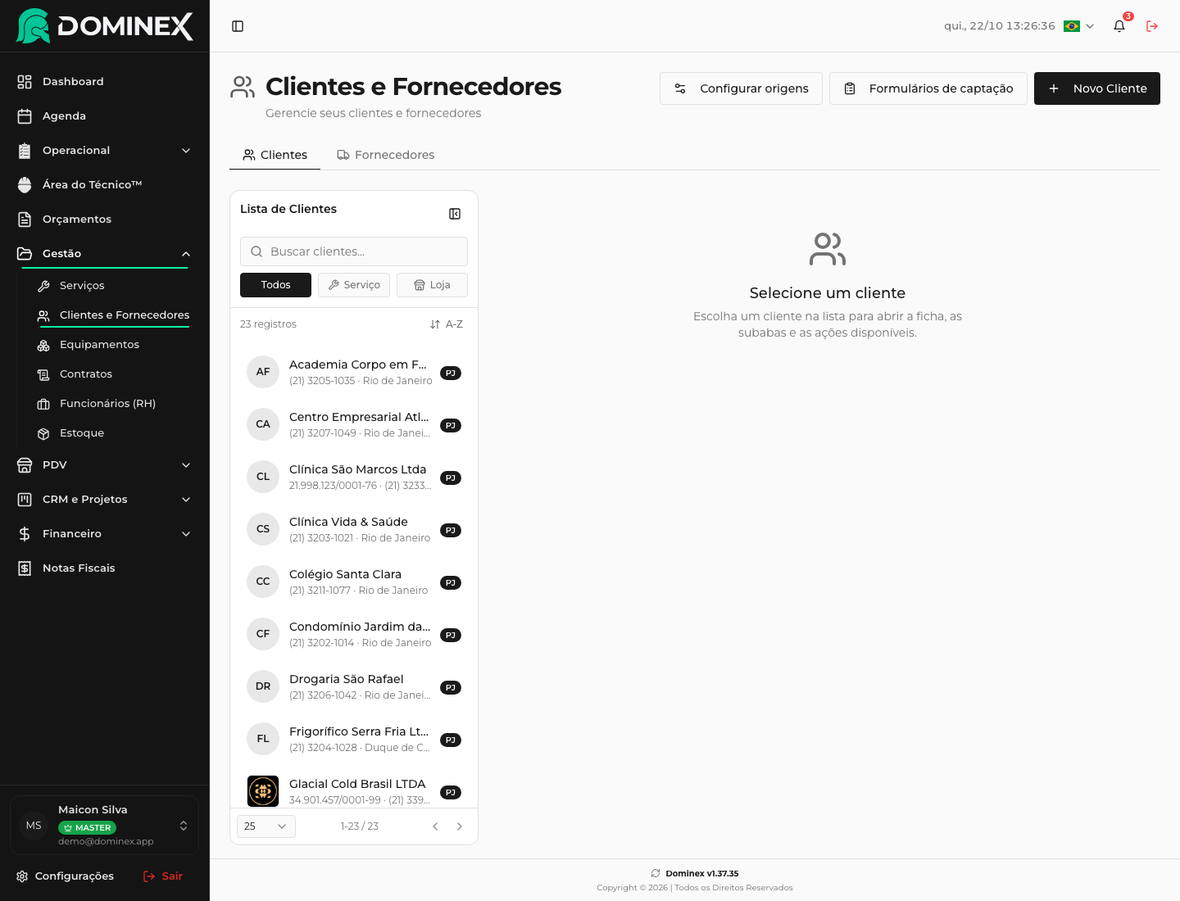
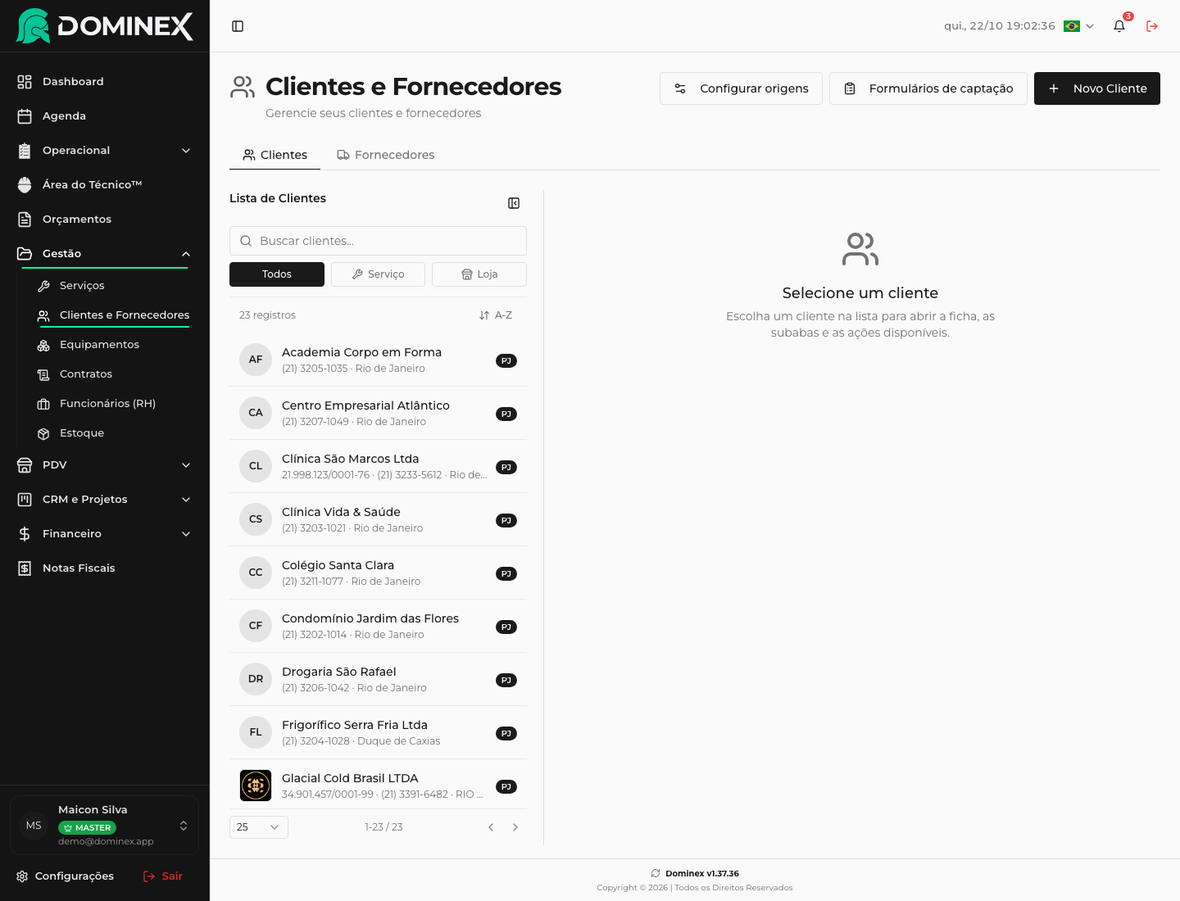
feat(ui): lista mais larga e visual limpo em clientes, fornecedores e equipamentos
Régua do painel /admin da Revalor: menos borda e menos fundo.

- ListDetailLayout: a coluna deixou de ser um CARD branco com moldura (que num
  fundo quase branco virava uma caixa solta no meio da tela) e virou uma coluna
  separada do detalhe por UM divisor vertical. Largura de 16-19rem para
  20-24rem: os nomes longos de equipamento paravam de caber.
- Linhas da lista: sem pílula arredondada; divisor fino entre itens e fundo
  sutil no selecionado.
- Ficha (Geral de cliente e de equipamento): no computador as seções perderam
  borda, fundo e sombra, ficando separadas por uma linha fina. No celular o
  card continua, que é onde ele faz sentido.
- Modal de cadastro de cliente: 600px para `sm:max-w-3xl` (são 23 campos em
  duas colunas) e os campos agrupados em Identificação, Contato e Outros dados
  — antes eram 23 campos seguidos sem nenhum título de seção.

Typecheck: 48 erros, lista idêntica à de origin/main (delta zero).
Testes: 98/98 nos pacotes afetados. Build de produção: verde.

diff --git a/src/components/ui/ListDetailLayout.tsx b/src/components/ui/ListDetailLayout.tsx
@@ -235,10 +235,10 @@ export function ListDetailLayout({
   return (
     <div
       className={cn(
-        'min-w-0 lg:grid lg:items-start lg:gap-5',
+        'min-w-0 lg:grid lg:items-start lg:gap-0',
         collapsed
           ? 'lg:grid-cols-[2.5rem_minmax(0,1fr)]'
-          : 'lg:grid-cols-[minmax(16rem,19rem)_minmax(0,1fr)]',
+          : 'lg:grid-cols-[minmax(20rem,24rem)_minmax(0,1fr)]',
         className,
       )}
     >
@@ -259,10 +259,10 @@ export function ListDetailLayout({
       ) : (
         <aside
           ref={asideRef}
-          className="hidden overflow-hidden rounded-xl border bg-card lg:sticky lg:top-4 lg:flex lg:h-[calc(100dvh-7rem)] lg:min-h-[24rem] lg:flex-col"
+          className="hidden overflow-hidden border-r border-border lg:sticky lg:top-4 lg:flex lg:h-[calc(100dvh-7rem)] lg:min-h-[24rem] lg:flex-col lg:pr-5"
           aria-label={listTitle}
         >
-          <div className="border-b p-3">
+          <div className="border-b border-border/60 pb-3">
             <div className="mb-3 flex items-start gap-2">
               <div className="min-w-0 flex-1">
                 <h2 className="truncate text-sm font-semibold">{listTitle}</h2>
@@ -296,7 +296,7 @@ export function ListDetailLayout({
 
           {/* Contagem + ordenação: linha discreta, sem caixa de seletor. O botão
               alterna para o próximo critério (com dois, é um liga-desliga A-Z). */}
-          <div className="flex items-center justify-between gap-2 px-3 py-2">
+          <div className="flex items-center justify-between gap-2 px-3 py-2.5">
             <span className="min-w-0 truncate text-xs text-muted-foreground">
               {(pagination.totalItems === 1 ? t.records : t.recordsPlural).replace(
                 '{count}',
@@ -318,11 +318,11 @@ export function ListDetailLayout({
             </button>
           </div>
 
-          <div className="min-h-0 flex-1 overflow-y-auto overscroll-contain p-2">
+          <div className="min-h-0 flex-1 overflow-y-auto overscroll-contain">
             {pagination.paginatedItems.length === 0 ? (
               <p className="px-3 py-8 text-center text-sm text-muted-foreground">{emptyLabel}</p>
             ) : (
-              <div className="space-y-1" role="list">
+              <div role="list">
                 {pagination.paginatedItems.map((item) => {
                   const selected = item.id === selectedId;
                   return (
@@ -332,10 +332,8 @@ export function ListDetailLayout({
                       aria-current={selected ? 'true' : undefined}
                       onClick={() => onSelect(item.id)}
                       className={cn(
-                        'flex w-full cursor-pointer items-center gap-3 rounded-lg px-3 py-2.5 text-left outline-none transition-colors',
-                        selected
-                          ? 'bg-primary/10 text-foreground ring-1 ring-inset ring-primary/20'
-                          : 'hover:bg-muted/70',
+                        'flex w-full cursor-pointer items-center gap-3 border-b border-border/60 px-3 py-3 text-left outline-none transition-colors last:border-b-0',
+                        selected ? 'bg-muted' : 'hover:bg-muted/50',
                       )}
                     >
                       {item.imageUrl ? (
@@ -394,7 +392,7 @@ export function ListDetailLayout({
             )}
           </div>
 
-          <div className="flex items-center justify-between gap-1 border-t px-2 py-2">
+          <div className="flex items-center justify-between gap-1 border-t border-border/60 py-2">
             <Select
               value={String(pagination.pageSize)}
               onValueChange={(value) =>
@@ -445,7 +443,7 @@ export function ListDetailLayout({
       {/* <div>, não <main>: o shell (AppLayout) já tem o único <main> do
           documento, e aninhar outro quebra o HTML e confunde quem procura
           "main" na página (leitor de tela, pipeline de print do guia). */}
-      <div className={cn('min-w-0', detailClassName)}>{children}</div>
+      <div className={cn('min-w-0 lg:pl-5', detailClassName)}>{children}</div>
     </div>
   );
 }

diff --git a/src/components/customers/CustomerFormDialog.tsx b/src/components/customers/CustomerFormDialog.tsx
@@ -107,6 +107,15 @@ interface CustomerFormDialogProps {
   defaultCustomerKind?: 'servico' | 'loja';
 }
 
+/** Título de seção do formulário: separa blocos de campos sem virar card. */
+function SecaoForm({ children }: { children: React.ReactNode }) {
+  return (
+    <p className="sm:col-span-2 mt-2 text-xs font-bold uppercase tracking-widest text-foreground/70 first:mt-0">
+      {children}
+    </p>
+  );
+}
+
 export function CustomerFormDialog({
   open, onOpenChange, customer, onSubmit, isLoading, defaultCustomerKind = 'servico',
 }: CustomerFormDialogProps) {
@@ -343,7 +352,7 @@ export function CustomerFormDialog({
   );
 
   return (
-    <ResponsiveModal open={open} onOpenChange={onOpenChange} title={customer ? t.titleEdit : t.titleNew} footer={footer}>
+    <ResponsiveModal open={open} onOpenChange={onOpenChange} title={customer ? t.titleEdit : t.titleNew} footer={footer} className="sm:max-w-3xl">
       <DraftResumeDialog
         open={draft.showResumePrompt}
         onResume={() => {
@@ -405,6 +414,7 @@ export function CustomerFormDialog({
                     </Button>
                   </label>
                 </div>
+                <SecaoForm>{t.formSectionIdentification}</SecaoForm>
                 <FormField control={form.control} name="name" render={({ field }) => (
                   <FormItem className="sm:col-span-2">
                     <FormLabel>{t.name}</FormLabel>
@@ -465,6 +475,7 @@ export function CustomerFormDialog({
                     </div>
                   </div>
                 )}
+                <SecaoForm>{t.formSectionContact}</SecaoForm>
                 <FormField control={form.control} name="phone" render={({ field }) => (
                   <FormItem>
                     <FormLabel>{t.phone}</FormLabel>
@@ -532,6 +543,7 @@ export function CustomerFormDialog({
                     <FormMessage />
                   </FormItem>
                 )} />
+                <SecaoForm>{t.formSectionOther}</SecaoForm>
                 <FormField control={form.control} name="birth_date" render={({ field }) => (
                   <FormItem>
                     <FormLabel>{t.birthDate}</FormLabel>

diff --git a/src/pages/CustomerDetail.tsx b/src/pages/CustomerDetail.tsx
@@ -954,7 +954,7 @@ export function CustomerDetailContent() {
             const embedUrl = `https://maps.google.com/maps?q=${encodedAddress}&t=&z=15&ie=UTF8&iwloc=&output=embed`;
 
             return (
-              <Card className={cn('sm:col-span-2', isMobile && 'rounded-2xl shadow-[0_1px_3px_rgba(0,0,0,0.04)]')}><CardContent className="p-4 space-y-3">
+              <Card className={cn('sm:col-span-2', 'lg:rounded-none lg:border-0 lg:border-b lg:border-border/60 lg:bg-transparent lg:shadow-none', isMobile && 'rounded-2xl shadow-[0_1px_3px_rgba(0,0,0,0.04)]')}><CardContent className="p-4 space-y-3 lg:px-0">
                 <p className="text-xs text-muted-foreground uppercase tracking-wider">{t.sectionAddress}</p>
                 <p className="text-sm font-medium flex items-center gap-1">
                   <MapPin className="h-3 w-3 shrink-0" />
@@ -985,7 +985,7 @@ export function CustomerDetailContent() {
             );
           })()}
           {/* Responsável no Local */}
-          <Card className={cn('sm:col-span-2', isMobile && 'rounded-2xl shadow-[0_1px_3px_rgba(0,0,0,0.04)]')}><CardContent className="p-4 space-y-3">
+          <Card className={cn('sm:col-span-2', 'lg:rounded-none lg:border-0 lg:border-b lg:border-border/60 lg:bg-transparent lg:shadow-none', isMobile && 'rounded-2xl shadow-[0_1px_3px_rgba(0,0,0,0.04)]')}><CardContent className="p-4 space-y-3 lg:px-0">
             <div className="flex items-center justify-between">
               <p className="text-xs text-muted-foreground uppercase tracking-wider flex items-center gap-1">
                 <UserCircle className="h-3.5 w-3.5" />

diff --git a/src/lib/i18n/messages/app/customers.ts b/src/lib/i18n/messages/app/customers.ts
@@ -74,6 +74,10 @@ export const customers = {
       create: 'Criar',
       cancel: 'Cancelar',
       tabContact: 'Contato',
+      // Títulos das seções do formulário de cliente
+      formSectionIdentification: 'Identificação',
+      formSectionContact: 'Contato',
+      formSectionOther: 'Outros dados',
       tabFiscal: 'Fiscal',
       photo: 'Foto',
       name: 'Nome *',
@@ -627,6 +631,10 @@ export const customers = {
       create: 'Create',
       cancel: 'Cancel',
       tabContact: 'Contact',
+      // Form section titles
+      formSectionIdentification: 'Identification',
+      formSectionContact: 'Contact',
+      formSectionOther: 'Other details',
       tabFiscal: 'Tax',
       photo: 'Photo',
       name: 'Name *',
@@ -1137,6 +1145,10 @@ export const customers = {
       create: 'Crear',
       cancel: 'Cancelar',
       tabContact: 'Contacto',
+      // Títulos de las secciones del formulario
+      formSectionIdentification: 'Identificación',
+      formSectionContact: 'Contacto',
+      formSectionOther: 'Otros datos',
       tabFiscal: 'Fiscal',
       photo: 'Foto',
       name: 'Nombre *',
@@ -1647,6 +1659,10 @@ export const customers = {
       create: 'Créer',
       cancel: 'Annuler',
       tabContact: 'Contact',
+      // Titres des sections du formulaire
+      formSectionIdentification: 'Identification',
+      formSectionContact: 'Contact',
+      formSectionOther: 'Autres informations',
       tabFiscal: 'Fiscal',
       photo: 'Photo',
       name: 'Nom *',

diff --git a/src/pages/EquipmentDetail.tsx b/src/pages/EquipmentDetail.tsx
@@ -507,8 +507,8 @@ export function EquipmentDetailContent() {
       {activeTab === 'geral' && (
         <div className="space-y-6">
           {/* Photo + QR row — lado a lado (mobile e desktop), grupo centralizado no card */}
-          <Card>
-            <CardContent className="p-6">
+          <Card className="lg:rounded-none lg:border-0 lg:border-b lg:border-border/60 lg:bg-transparent lg:shadow-none">
+            <CardContent className="p-6 lg:px-0">
               <div className="flex flex-col items-center gap-6 lg:flex-row lg:items-center lg:justify-between">
                 {/* Foto */}
                 {equipment.photo_url && (
@@ -640,8 +640,8 @@ export function EquipmentDetailContent() {
 
             if (rows.length === 0) return null;
             return (
-              <Card>
-                <CardContent className="p-4 sm:p-6">
+              <Card className="lg:rounded-none lg:border-0 lg:border-b lg:border-border/60 lg:bg-transparent lg:shadow-none">
+                <CardContent className="p-4 sm:p-6 lg:px-0">
                   <h2 className="text-sm font-bold uppercase tracking-widest text-foreground/70 mb-4">{te.sectionInfo}</h2>
                   <div className="grid grid-cols-1 gap-4 sm:grid-cols-2">
                     {rows.map((row, i) => (

diff --git a/src/pages/Changelog.tsx b/src/pages/Changelog.tsx
@@ -47,6 +47,16 @@ export const changelog: ChangelogEntry[] = [
     type: 'patch',
     changes: [
       {
+        title: 'Clientes, fornecedores e equipamentos com visual mais limpo',
+        description: 'No computador, a lista ao lado da ficha ficou mais larga (os nomes longos agora cabem) e perdeu a moldura branca: lista e ficha ficam separadas por uma linha fina, e as seções da ficha também deixaram de ser caixas. Menos borda, mais respiro, mesma informação.',
+        category: 'melhoria',
+      },
+      {
+        title: 'Cadastro de cliente mais fácil de preencher',
+        description: 'A janela de cadastro ficou mais larga no computador e os campos foram agrupados em Identificação, Contato e Outros dados, em vez de uma lista corrida.',
+        category: 'melhoria',
+      },
+      {
         title: 'O mapa do cliente não pisca mais ao trocar de cadastro',
         description: 'Na ficha do cliente, o mapa do endereço ficava branco por um instante cada vez que você escolhia outro cliente na lista. Agora o mapa anterior continua na tela e o novo aparece por cima quando termina de carregar.',
         category: 'melhoria',

diff --git a/public/guia-tecnico/index.html b/public/guia-tecnico/index.html
@@ -250,7 +250,7 @@ footer.rodape a{color:var(--sinal);text-decoration:none}
       <div class="ficha"><div class="n">07</div><div class="l">Fases</div></div>
     </div>
     <div class="meta-doc">
-      <b>Versão do sistema</b> v1.37.35 &nbsp;·&nbsp; <b>Atualizado em</b> 22 de outubro de 2026
+      <b>Versão do sistema</b> v1.37.36 &nbsp;·&nbsp; <b>Atualizado em</b> 22 de outubro de 2026
     </div>
   </div>
 </header>

diff --git a/src/config/version.ts b/src/config/version.ts
@@ -1,4 +1,4 @@
 export const APP_VERSION = "1.37.36";
 
 export const VERSION_NOTES =
-  "O mapa do endereço do cliente agora troca suavemente ao pular de um cadastro para outro, sem piscar.";
+  "Clientes, fornecedores e equipamentos ganharam visual mais limpo no computador: lista mais larga, sem molduras, e a ficha com menos caixas. O mapa do endereço troca sem piscar e o cadastro de cliente ficou agrupado por assunto.";
